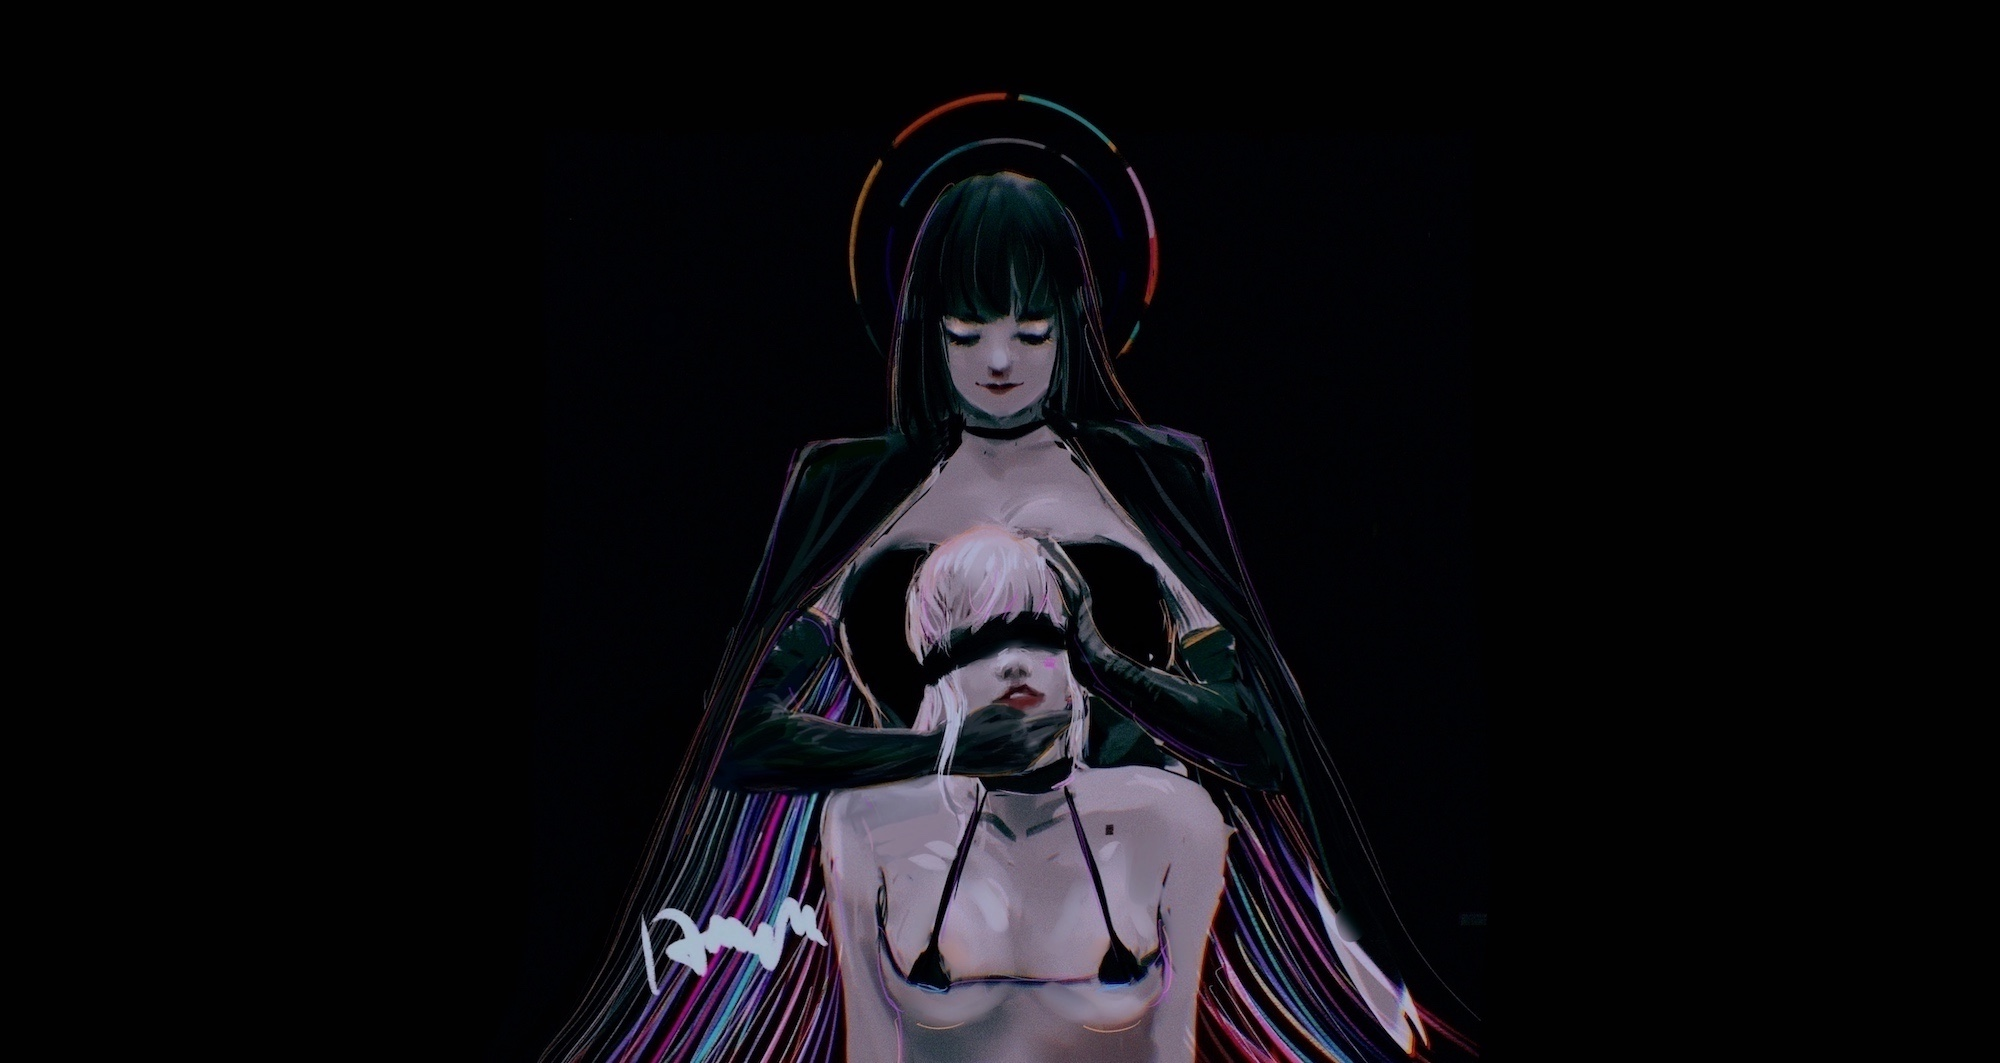
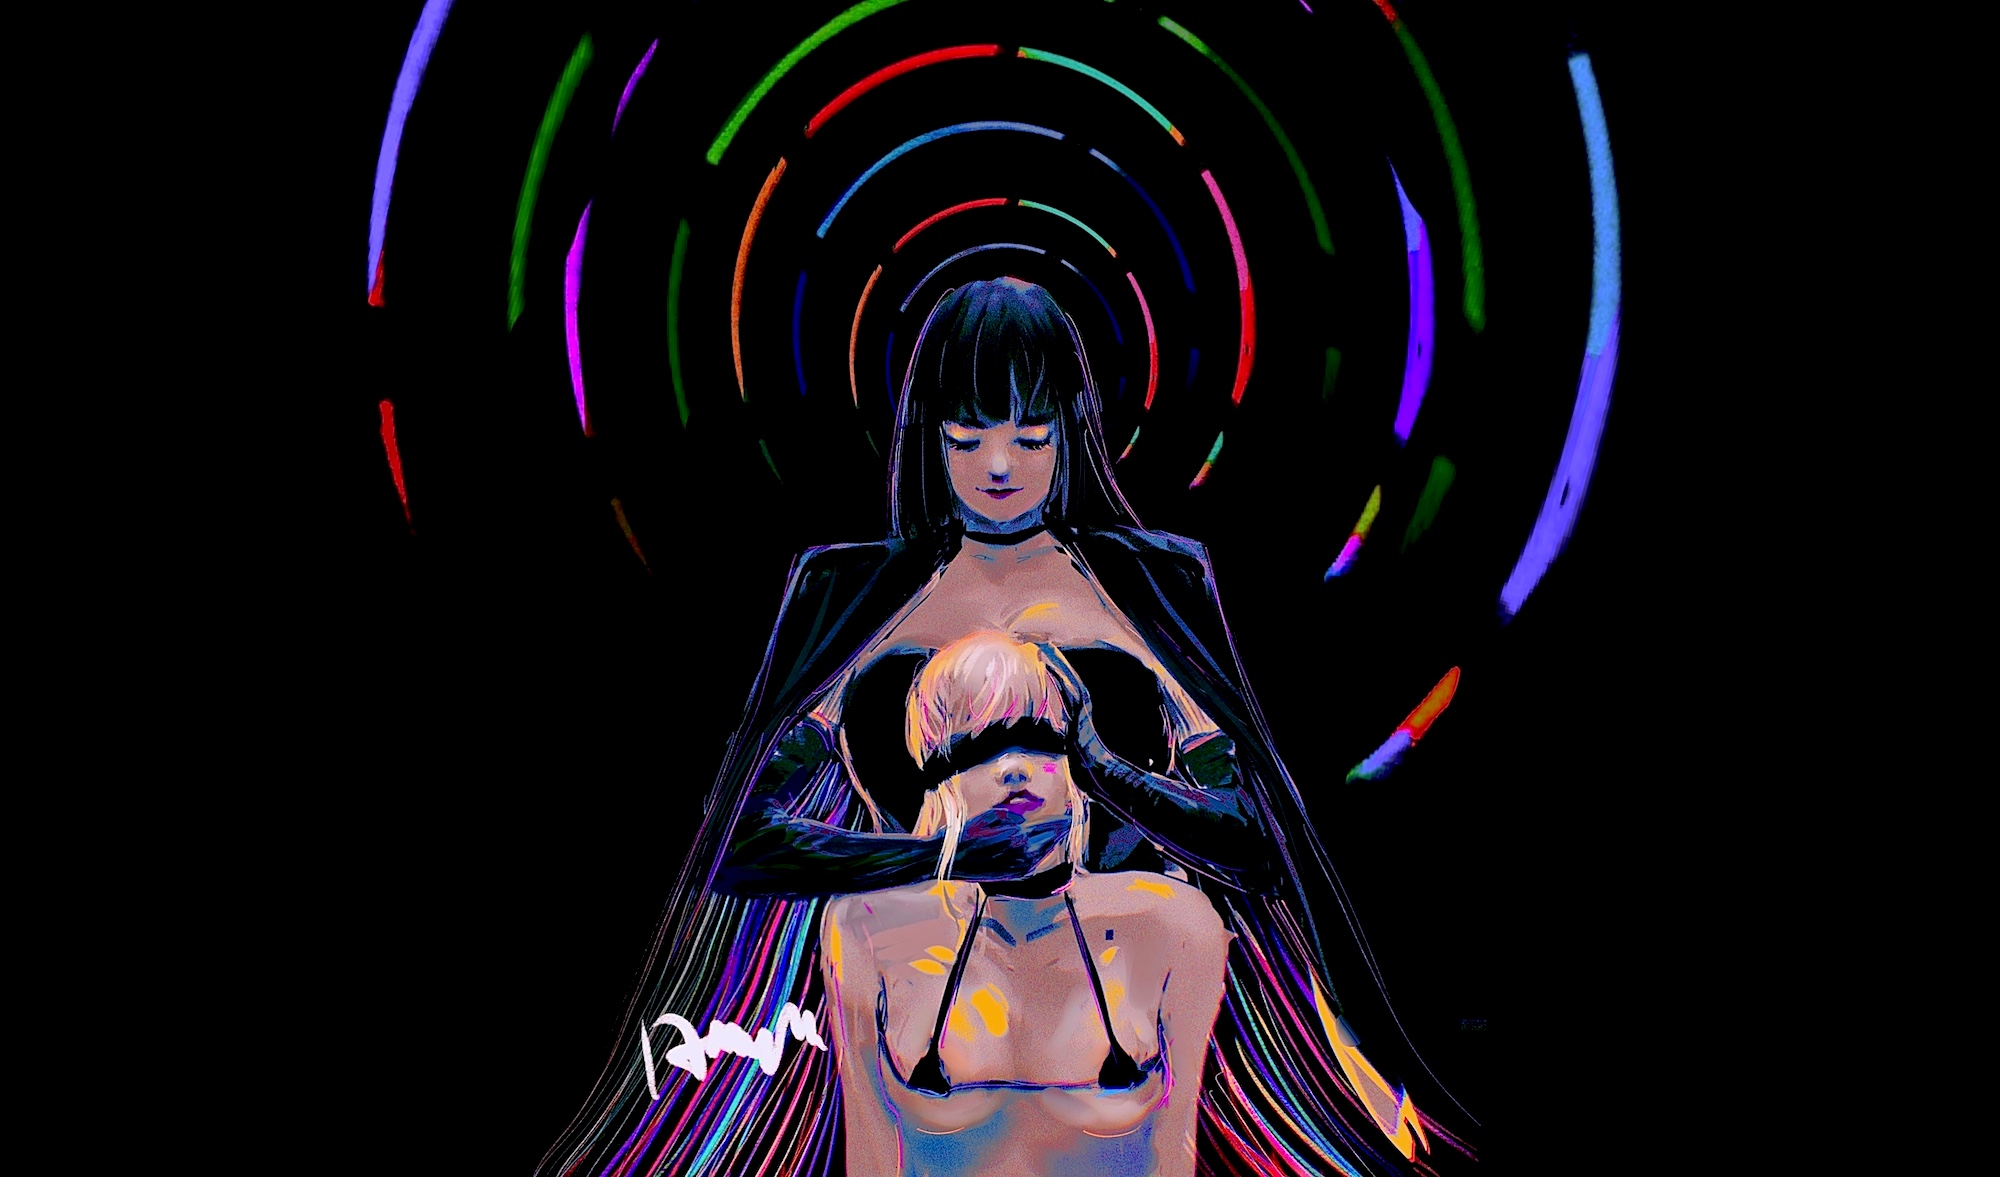
new commit

diff --git a/art/index.html b/art/index.html
@@ -1029,7 +1029,7 @@
     
     
     <a href="/project/hypnosis/"  class="card-image hover-overlay">
-      <img src="/project/hypnosis/featured_hue4c59e51962c9e5365a876d8aacf2602_249599_550x0_resize_q90_lanczos.jpg" alt="" class="img-responsive">
+      <img src="/project/hypnosis/featured_hu93973d2162795dc5fab562c25f56119e_353014_550x0_resize_q90_lanczos.jpg" alt="" class="img-responsive">
     </a>
     
     <div class="card-text">
@@ -1244,7 +1244,7 @@
     
     
     <a href="/project/smoke/"  class="card-image hover-overlay">
-      <img src="/project/smoke/featured_hu93973d2162795dc5fab562c25f56119e_982890_550x0_resize_q90_lanczos.jpg" alt="" class="img-responsive">
+      <img src="/project/smoke/featured_hu6c6d02734cf9f89718e96fc21fcbef42_1143873_550x0_resize_q90_lanczos.jpg" alt="" class="img-responsive">
     </a>
     
     <div class="card-text">

diff --git a/project/hypnosis/index.html b/project/hypnosis/index.html
@@ -585,9 +585,9 @@
 </div>
 
 
-<div class="article-header article-container featured-image-wrapper mt-4 mb-4" style="max-width: 720px; max-height: 915px;">
+<div class="article-header article-container featured-image-wrapper mt-4 mb-4" style="max-width: 720px; max-height: 1117px;">
   <div style="position: relative">
-    <img src="/project/hypnosis/featured_hue4c59e51962c9e5365a876d8aacf2602_249599_720x0_resize_q90_lanczos.jpg" alt="" class="featured-image">
+    <img src="/project/hypnosis/featured_hu93973d2162795dc5fab562c25f56119e_353014_720x0_resize_q90_lanczos.jpg" alt="" class="featured-image">
     
   </div>
 </div>

diff --git a/project/smoke/index.html b/project/smoke/index.html
@@ -585,9 +585,9 @@
 </div>
 
 
-<div class="article-header article-container featured-image-wrapper mt-4 mb-4" style="max-width: 720px; max-height: 829px;">
+<div class="article-header article-container featured-image-wrapper mt-4 mb-4" style="max-width: 720px; max-height: 936px;">
   <div style="position: relative">
-    <img src="/project/smoke/featured_hu93973d2162795dc5fab562c25f56119e_982890_720x0_resize_q90_lanczos.jpg" alt="" class="featured-image">
+    <img src="/project/smoke/featured_hu6c6d02734cf9f89718e96fc21fcbef42_1143873_720x0_resize_q90_lanczos.jpg" alt="" class="featured-image">
     
   </div>
 </div>
